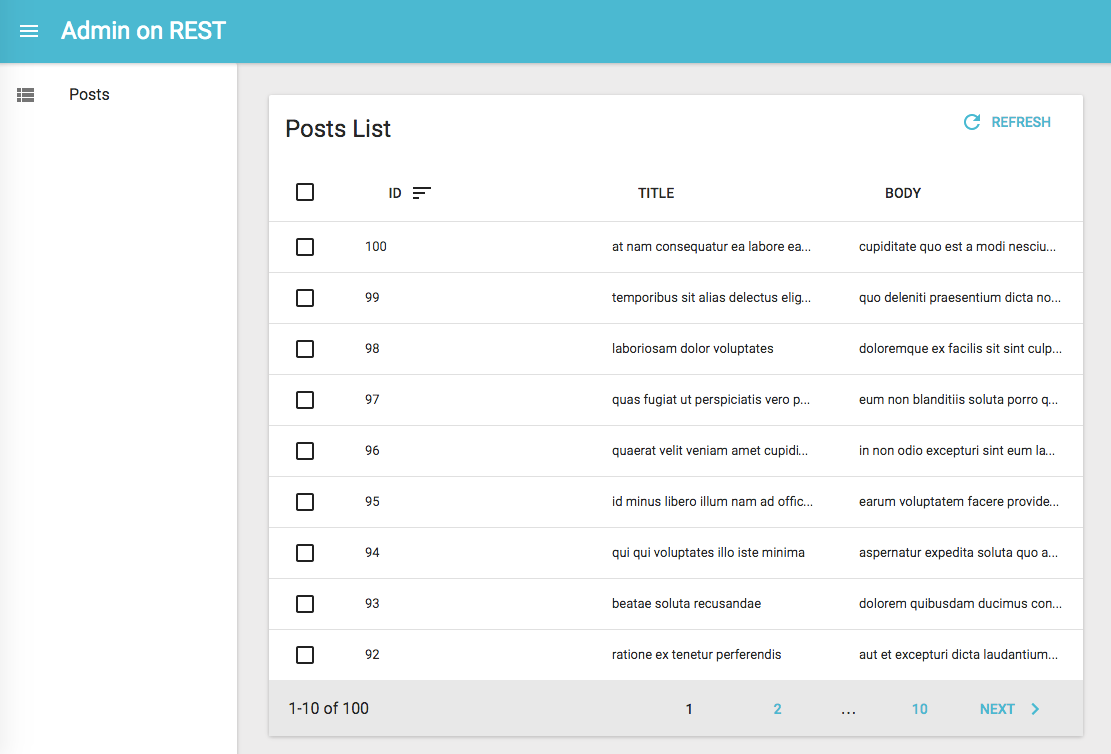
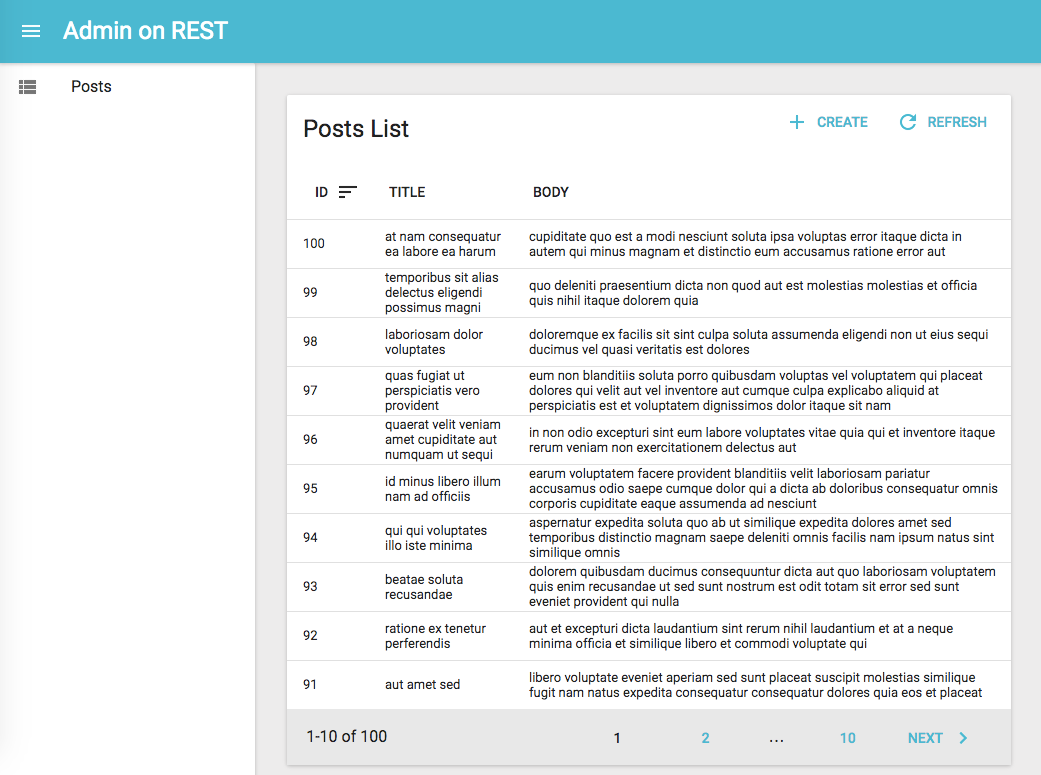
Update tutorial screenshots, proofreading

diff --git a/docs/Tutorial.md b/docs/Tutorial.md
@@ -23,21 +23,30 @@ yarnpkg start
 
 You should be up and running with an empty React application on port 3000.
 
-The API is not stable yet, so make sure you read the correct version of this tutorial,
-which you should be able to find locally as `node_modules/admin-on-rest/docs/Tutorial.md`.
-
 ## Making Contact With The API
 
-We'll be using [JSONPlaceholder](http://jsonplaceholder.typicode.com/), which is a fake online REST API for testing and prototyping, as the datasource for the admin.
+We'll be using [JSONPlaceholder](http://jsonplaceholder.typicode.com/), a fake REST API designed for testing and prototyping, as the datasource for the admin.
 
-JSONPlaceholder provides endpoints for fake posts, fake comments, and fake users. The admin we'll build will allow to Create, Retrieve, Update, and Delete (CRUD) these resources.
+```
+curl http://jsonplaceholder.typicode.com/posts/12
+```
+
+```json
+{
+  "id": 12,
+  "title": "in quibusdam tempore odit est dolorem",
+  "body": "itaque id aut magnam\npraesentium quia et ea odit et ea voluptas et\nsapiente quia nihil amet occaecati quia id voluptatem\nincidunt ea est distinctio odio",
+  "userId": 2
+}
+```
+
+JSONPlaceholder provides endpoints for posts, comments, and users. The admin we'll build will allow to Create, Retrieve, Update, and Delete (CRUD) these resources.
 
 Replace the `src/App.js` by the following code:
 
 ```js
 // in src/App.js
 import React from 'react';
-
 import { jsonServerRestClient, Admin, Resource } from 'admin-on-rest';
 
 import { PostList } from './posts';
@@ -51,9 +60,9 @@ const App = () => (
 export default App;
 ```
 
-The App component now renders an `<Admin>` component, which is the main component of admin-on-rest. This component expects a REST client as a parameter - a function capable of translating REST commands into HTTP requests. Since REST isn't a standard, you will probably have to provide a custom client to connect to your own APIs. But we'll dive into REST clients later. For now, let's take advantage of the `jsonServerRestClient`, which speaks the same REST dialect as JSONPlaceholder.
+The `App` component now renders an `<Admin>` component, which is the main component of admin-on-rest. This component expects a REST client as a parameter - a function capable of translating REST commands into HTTP requests. Since REST isn't a standard, you will probably have to provide a custom client to connect to your own APIs. But we'll dive into REST clients later. For now, let's take advantage of the `jsonServerRestClient`, which speaks the same REST dialect as JSONPlaceholder.
 
-The `<Admin>` component contains `<Resource>` components, each resource being mapped to an endpoint in the API. To begin with, we'll display the list of posts. Here is what the `<PostList>` component looks like:
+The `<Admin>` component can contain one or more `<Resource>` components, each resource being mapped to an endpoint in the API. To begin with, we'll display the list of posts. Here is what the `<PostList>` component looks like:
 
 ```js
 // in src/posts.js
@@ -71,17 +80,49 @@ export const PostList = (props) => (
 );
 ```
 
-The main component of the post list is a `<List>` component, responsible for grabbing the information from the url, displaying the page title, and handling pagination. This list then delegates the display of the actual list of posts to a `<Datagrid>`, responsible for displaying a table with one row for each post. As for which columns should be displayed in this table, that's what the bunch of `<TextField>` components are for, each mapping a different source field in the API response.
+The main component of the post list is a `<List>` component, responsible for grabbing the information from the API, displaying the page title, and handling pagination. This list then delegates the display of the actual list of posts to a `<Datagrid>`, responsible for displaying a table with one row for each post. The datagrid uses it child components (here, a list of `<TextField>`) to determine the columns to render. Each Field component maps a different field in the API response, specified by the `source` prop.
 
-That should be enough to display the post list:
+That's enough to display the post list:
 
 ![Simple posts list](./img/simple-post-list.png)
 
-The list is already functional: you can change the ordering by clicking on column headers, or change pages by using the bottom pagination controls.
+The list is already functional: you can creorder it by clicking on column headers, or change pages by using the bottom pagination controls.
 
 ## Field Types
 
-So far, you've only seen `<TextField>`, but if the API sends resources with other types of content, admin-on-rest can provide more features. For instance, [the `/users` endpoint in JSONPlaceholder](http://jsonplaceholder.typicode.com/users) contains emails. Let's see how the list displays them:
+You've just met the `<TextField>` component, but admin-on-rest provides many Field components to map various content types. For instance, [the `/users` endpoint in JSONPlaceholder](http://jsonplaceholder.typicode.com/users) contains emails.
+
+```
+curl http://jsonplaceholder.typicode.com/users/2
+```
+
+```json
+{
+  "id": 2,
+  "name": "Ervin Howell",
+  "username": "Antonette",
+  "email": "Shanna@melissa.tv",
+  "address": {
+    "street": "Victor Plains",
+    "suite": "Suite 879",
+    "city": "Wisokyburgh",
+    "zipcode": "90566-7771",
+    "geo": {
+      "lat": "-43.9509",
+      "lng": "-34.4618"
+    }
+  },
+  "phone": "010-692-6593 x09125",
+  "website": "anastasia.net",
+  "company": {
+    "name": "Deckow-Crist",
+    "catchPhrase": "Proactive didactic contingency",
+    "bs": "synergize scalable supply-chains"
+  }
+}
+```
+
+Let's create a new `UserList`, using `<EmailField>` to map the `email` field:
 
 ```js
 // in src/users.js
@@ -100,7 +141,7 @@ export const UserList = (props) => (
 );
 ```
 
-You'll notice that we override the default `title` of this list. To include the new `users` resource in the admin app, add it in `src/App.js`:
+You'll notice that this list overrides the default `title`. To include the new `users` resource in the admin app, add it in `src/App.js`:
 
 ```js
 // in src/App.js
@@ -119,24 +160,27 @@ const App = () => (
 
 The sidebar now gives access to the second resource, Users. The users list shows the email as a `<a href="mailto:">` tag.
 
-In admin-on-rest, fields are simple React components. At runtime, they receive the `record` they operate on (coming from the API, e.g. `{ "id": 1, "name": "Leanne Graham", "username": "Bret", "email": "Sincere@april.biz" }`), and the `source` field they should display (e.g. 'email'). That means that the code for field components is really simple:
+In admin-on-rest, fields are simple React components. At runtime, they receive the `record` fetched from the API on (e.g. `{ "id": 2, "name": "Ervin Howell", "username": "Antonette", "email": "Shanna@melissa.tv", ... }`), and the `source` field they should display (e.g. 'email').
+
+That means that writing a custom Field component is really simple. For instance, to create an `UrlField`:
 
 ```js
-// in admin-on-rest/src/mui/field/EmailField.js
+// in admin-on-rest/src/mui/field/UrlField.js
 import React from 'react';
 import PropTypes from 'prop-types';
 
-const EmailField = ({ record = {}, source }) => <a href={`mailto:${record[source]}`}>{record[source]}</a>;
+const UrlField = ({ record = {}, source }) =>
+    <a href={record[source]}>
+        {record[source]}
+    </a>;
 
-EmailField.propTypes = {
-    source: PropTypes.string.isRequired,
+UrlField.propTypes = {
     record: PropTypes.object,
+    source: PropTypes.string.isRequired,
 };
 
-export default EmailField;
+export default UrlField;
 ```
-
-Creating your own custom fields shouldn't be too difficult.
 
 ## Relationships
 
@@ -151,7 +195,7 @@ In JSONPlaceholder, each `post` record includes a `userId` field, which points t
 }
 ```
 
-Admin-on-REST knows how to take advantage of these foreign keys to fetch references to a given record. For instance, to include the user name in the posts list, use the `<ReferenceField>`:
+Admin-on-REST knows how to take advantage of these foreign keys to fetch references. For instance, to include the user name in the posts list, use the `<ReferenceField>`:
 
 ```js
 // in src/posts.js
@@ -172,7 +216,7 @@ export const PostList = (props) => (
 );
 ```
 
-When displaying the posts list, the browser now fetches related user records, and displays their `name` as a `<TextField>`. Notice the `label` property: you can use it on any field component to customize the list header.
+When displaying the posts list, the app now fetches related user records, and displays their `name` as a `<TextField>`. Notice the `label` property: you can use it on any field component to customize the field label.
 
 ![reference posts in comment list](./img/reference-posts.png)
 
@@ -180,7 +224,7 @@ When displaying the posts list, the browser now fetches related user records, an
 
 ## Creation and Edition
 
-An admin interface is usually for more than seeing remote data - it's for editing and creating, too. Admin-on-REST provides `<Create>` and `<Edit>` components for that purpose. We'll add them to the `posts` resource:
+An admin interface is about displaying remote data, but also about editing and creating. Admin-on-REST provides `<Create>` and `<Edit>` components for that purpose. Add them to the `posts` script:
 
 ```js
 // in src/posts.js
@@ -231,15 +275,15 @@ export const PostCreate = (props) => (
 );
 ```
 
-Notice the additional `<EditButton>` field in the `<PostList>` component children: that's what gives access to the post edition view. Also, the `<Edit>` component uses a custom `<PostTitle>` component as title, which shows the way to customize the title of a given view.
+Notice the additional `<EditButton>` field in the `<PostList>` children: that's what gives access to the post edition page. Also, the `<Edit>` component uses a custom `<PostTitle>` component as title, which shows the way to customize the title for a given page.
 
-If you've understood the `<List>` component, the `<Edit>` and `<Create>` components will be no surprise. They are responsible for displaying the page title and preparing the data (fetching and setting default values). They pass the data to the `<SimpleForm>` component, which is responsible for the form layout and validation. Just like `<Datagrid>`, `<SimpleForm>` uses its children to display the form inputs. It expects *input components* as children. `<DisabledInput>`, `<TextInput>`, `<LongTextInput>`, and `<ReferenceInput>` are such inputs.
+If you've understood the `<List>` component, the `<Edit>` and `<Create>` components will be no surprise. They are responsible for fetching the record, and displaying the page title. They pass the record down to the `<SimpleForm>` component, which is responsible for the form layout, dfault values, and validation. Just like `<Datagrid>`, `<SimpleForm>` uses its children to determine the form inputs to display. It expects *input components* as children. `<DisabledInput>`, `<TextInput>`, `<LongTextInput>`, and `<ReferenceInput>` are such inputs.
 
-As for the `<ReferenceInput>`, it takes the same attributes as the `<ReferenceField>` (used earlier in the list view). `<ReferenceInput>` uses these attributes to fetch the API for possible references for the current record (in this case, possible `users` for the current `post`). Once it gets these possible records, it passes them to the child component (`<SelectInput>`), which is responsible for displaying them (via their `name` in that case) and letting the user select one. `<SelectInput>` renders as a `<select>` tag in HTML.
+As for the `<ReferenceInput>`, it takes the same props as the `<ReferenceField>` (used earlier in the list page). `<ReferenceInput>` uses these props to fetch the API for possible references related to the current record (in this case, possible `users` for the current `post`). It then passes these possible references to the child component (`<SelectInput>`), which is responsible for displaying them (via their `name` in that case), and letting the user select one. `<SelectInput>` renders as a `<select>` tag in HTML.
 
 **Tip**: The `<Edit>` and the `<Create>` components use the same `<ReferenceInput>` configuration, except for the `allowEmpty` attribute, which is required in `<Create>`.
 
-To use the new `<PostEdit>` and `<PostCreate>` components in the posts resource, just add them as `edit` and `create` attributes to the `<Resource>` component:
+To use the new `<PostEdit>` and `<PostCreate>` components in the posts resource, just add them as `edit` and `create` attributes in the `<Resource>` component:
 
 ```js
 // in src/App.js
@@ -258,15 +302,15 @@ Admin-on-rest automatically adds a "create" button on top of the posts list to g
 
 ![post list with access to edit and create](./img/editable-post.png)
 
-The create and edit views render as a form. It's already functional, and automatically issues `POST` and `PUT` requests to the REST API.
+The form rendered in the create and edit pages is already functional. It issues `POST` and `PUT` requests to the REST API upon submission.
 
 ![post edition form](./img/post-edition.png)
 
-**Note**: JSONPlaceholder is a read-only API: although it seems to accept `POST` and `PUT` requests, it doesn't take into account the creations and editions - that's why, in this particular case, you will see errors after creation, and you won't see your editions after you save them.
+**Note**: JSONPlaceholder is a read-only API; although it seems to accept `POST` and `PUT` requests, it doesn't take into account the creations and editions - that's why, in this particular case, you will see errors after creation, and you won't see your editions after you save them. It's just an artifact of JSONPlaceholder.
 
 ## Deletion
 
-There is not much to configure in a deletion view. To add removal abilities to a `Resource`, simply use the bundled `<Delete>` component from admin-on-rest using the `remove` attribute ('delete' is a reserved word in JavaScript):
+There is not much to configure in a deletion view. To add removal abilities to a `Resource`, simply use the bundled `<Delete>` component from admin-on-rest, and register it using the `remove` prop ('delete' is a reserved word in JavaScript):
 
 ```js
 // in src/App.js
@@ -288,7 +332,7 @@ In the edition view, a new "delete" button appears. And you can also use the `<D
 
 Let's get back to the post list for a minute. It offers sorting and pagination, but one feature is missing: the ability to search content.
 
-Admin-on-rest can use input components to create a multi-criteria search engine in the list view. First, create a `<Filter>` component just like you would with a `<Create>` component, using input components. Then, tell the list to use a filter element using the `filters` prop:
+Admin-on-rest can use input components to create a multi-criteria search engine in the list view. First, create a `<Filter>` component just like you would write a `<SimpleForm>` component, using input components as children. Then, add it to the list using the `filters` prop:
 
 ```js
 // in src/posts.js
@@ -310,7 +354,7 @@ export const PostList = (props) => (
 );
 ```
 
-The first filter, 'q', takes advantage of a full-text functionality offered by JSONPlaceholder. It is `alwaysOn`, so it always appears on the screen. The second filter, 'userId', can be added by the "add filter" button on the top of the list. As it's a `<ReferenceInput>`, it's already populated with possible users. It can be turned off by the end user.
+The first filter, 'q', takes advantage of a full-text functionality offered by JSONPlaceholder. It is `alwaysOn`, so it always appears on the screen. The second filter, 'userId', can be added by way of the "add filter" button, located on the top of the list. As it's a `<ReferenceInput>`, it's already populated with possible users. It can be turned off by the end user.
 
 Filters are "search-as-you-type", meaning that when the user enters new values in the filter form, the list refreshes (via an API request) immediately.
 
@@ -337,7 +381,7 @@ const App = () => (
 
 ## Using a Custom Home Page
 
-By default, admin-on-rest displays the list view of the first resource as home page. If you want to display a custom component instead, pass it in the `dashboard` attribute of the `<Admin>` component.
+By default, admin-on-rest displays the list page of the first resource as home page. If you want to display a custom component instead, pass it in the `dashboard` prop of the `<Admin>` component.
 
 {% raw %}
 ```js
@@ -369,11 +413,11 @@ const App = () => (
 
 ## Adding a Login Page
 
-Most admin apps require authentication, so admin-on-rest can check user credentials before displaying a page, and redirect to a login form when the REST API returns a 403 error code.
+Most admin apps require authentication. Admin-on-rest can check user credentials before displaying a page, and redirect to a login form when the REST API returns a 403 error code.
 
 *What* those credentials are, and *how* to get them, are questions that you must answer. Admin-on-rest makes no assumption about your authentication strategy (basic auth, OAuth, custom route, etc), but gives you the hooks to plug your logic at the right place - by calling an `authClient` function.
 
-For this tutorial, since there is no public authentication API we can use, we'll use a fake authentication provider that accepts every login request, and stores the `username` in `localStorage`. We'll implement a credentials checker that validates only if `localStorage` contains a `username` item.
+For this tutorial, since there is no public authentication API we can use, let's use a fake authentication provider that accepts every login request, and stores the `username` in `localStorage`. Each page change will require that `localStorage` contains a `username` item.
 
 The `authClient` is a simple function, which must return a `Promise`:
 
@@ -411,7 +455,7 @@ export default (type, params) => {
 };
 ```
 
-As it's asynchronous, you can easily fetch an authentication server in there.
+**Tip**: As the `restClient` response is asynchronous, you can easily fetch an authentication server in there.
 
 To enable this authentication strategy, pass the client as the `authClient` prop in the `<Admin>` component:
 
@@ -435,9 +479,9 @@ Once the app reloads, it's now behind a login form that accepts everyone:
 
 The admin-on-rest layout is already responsive. Try to resize your browser to see how the sidebar switches to a drawer on smaller screens.
 
-But the layout is not enough. Datagrid components work well on desktop, but are absolutely not adapted to mobile devices. If your admin can be used on mobile devices, you'll have to provide an alternative components for small screens
+But a responsive layout is not enough to make a responsive app. Datagrid components work well on desktop, but are absolutely not adapted to mobile devices. If your admin must be used on mobile devices, you'll have to provide an alternative component for small screens
 
-First, you should know that you don't have to use a `<Datagrid>` as `<List>` child. You can use any other component. For instance, the `<SimpleList>` component:
+First, you should know that you don't have to use the `<Datagrid>` component as `<List>` child. You can use any other component you like. For instance, the `<SimpleList>` component:
 
 ```js
 // in src/posts.js
@@ -456,6 +500,8 @@ export const PostList = (props) => (
 ```
 
 The `<SimpleList>` component uses [material-ui's `<List>` and `<ListItem>` components](http://www.material-ui.com/#/components/list), and expects functions as `primaryText`, `secondaryText`, and `tertiaryText` props.
+
+<img src="./img/mobile-post-list.png" alt="Mobile post list" style="display:block;margin:2em auto;box-shadow:none;filter:drop-shadow(13px 12px 7px rgba(0,0,0,0.5));" />
 
 That works fine on mobile, but now the desktop user experience is worse. The best compromise would be to use `<SimpleList>` on small screens, and `<Datagrid>` on other screens. That's where the `<Responsive>` component comes in:
 
@@ -490,13 +536,15 @@ export const PostList = (props) => (
 );
 ```
 
-This works exactly how you expect. The lesson here is that admin-on-rest takes care of responsive web design for the layout, but it's your job to use `<Responsive>` in pages.
+This works exactly the way you expect. The lesson here is that admin-on-rest takes care of responsive web design for the layout, but it's your job to use `<Responsive>` in pages.
+
+![Responsive List](./img/responsive-list.gif)
 
 ## Using Another REST Dialect
 
 Here is the elephant in the room of this tutorial. In real world projects, the REST dialect of your API won't match the JSONPLaceholder dialect. Writing a REST client is probably the first thing you'll have to do to make admin-on-rest work. Depending on your API, this can require a few hours of additional work.
 
-Admin-on-rest delegates every REST calls to a REST client function. This function must simply return a promise for the result. This gives extreme freedom to map any API dialect, add authentication, use endpoints from several domains, etc.
+Admin-on-rest delegates every REST calls to a REST client function. This function must simply return a promise for the result. This gives extreme freedom to map any API dialect, add authentication headers, use endpoints from several domains, etc.
 
 For instance, let's imagine you have to use the my.api.url API, which expects the following parameters:
 
@@ -642,4 +690,6 @@ const App = () => (
 
 ## Conclusion
 
-Admin-on-rest was build with customization in mind. You can use your custom React components everywhere to display a custom list, or a different edition form for a given resource. If you want to go deeper, continue reading the [admin-on-rest documentation](http://marmelab.com/admin-on-rest/), and read the [Material UI components documentation](http://www.material-ui.com/#/).
+Admin-on-rest was build with customization in mind. You can replace any admin-on-rest component with a component of your own, for instance to display a custom list layout, or a different edition form for a given resource.
+
+Now that you've completed the tutorial, continue reading the [admin-on-rest documentation](http://marmelab.com/admin-on-rest/), and read the [Material UI components documentation](http://www.material-ui.com/#/).
